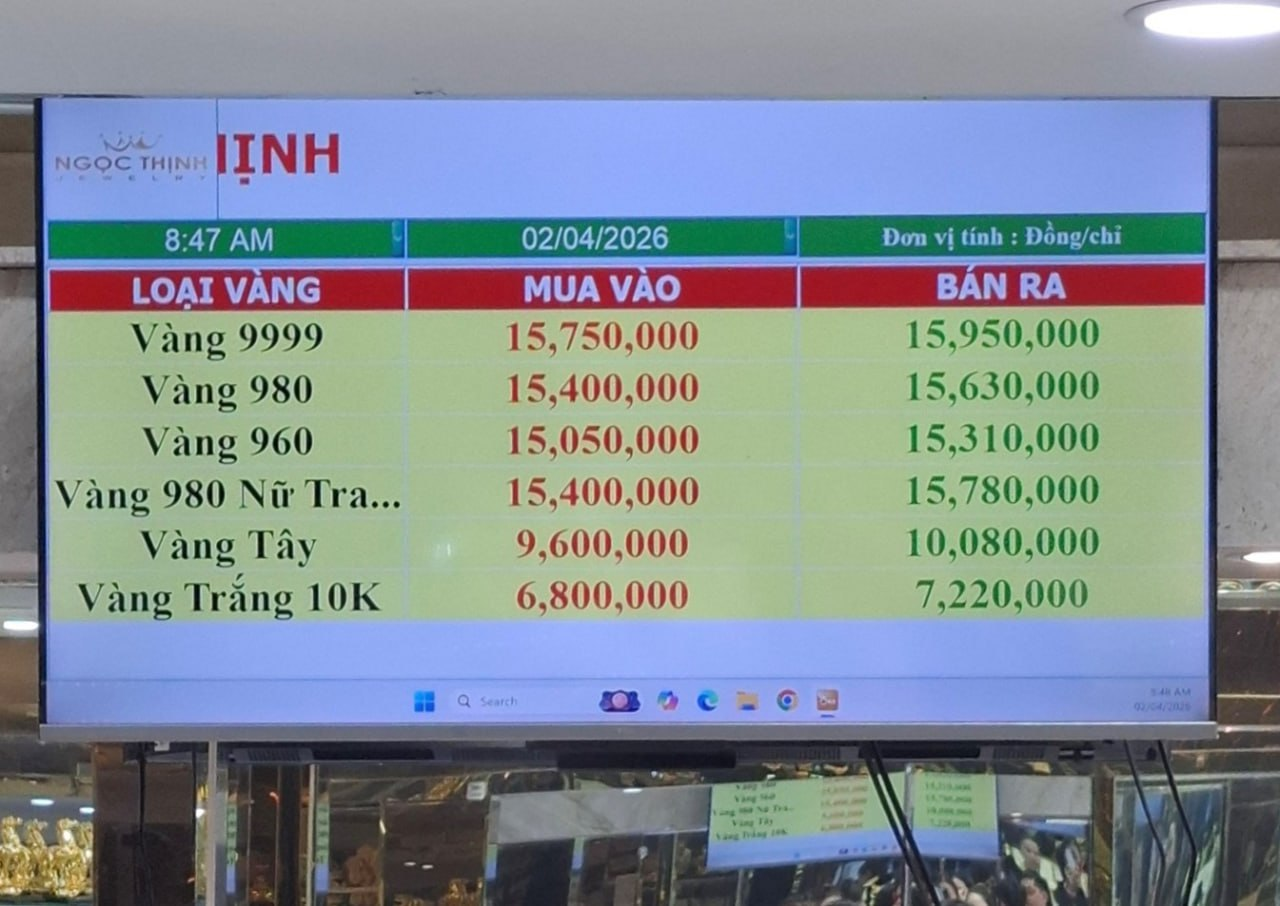
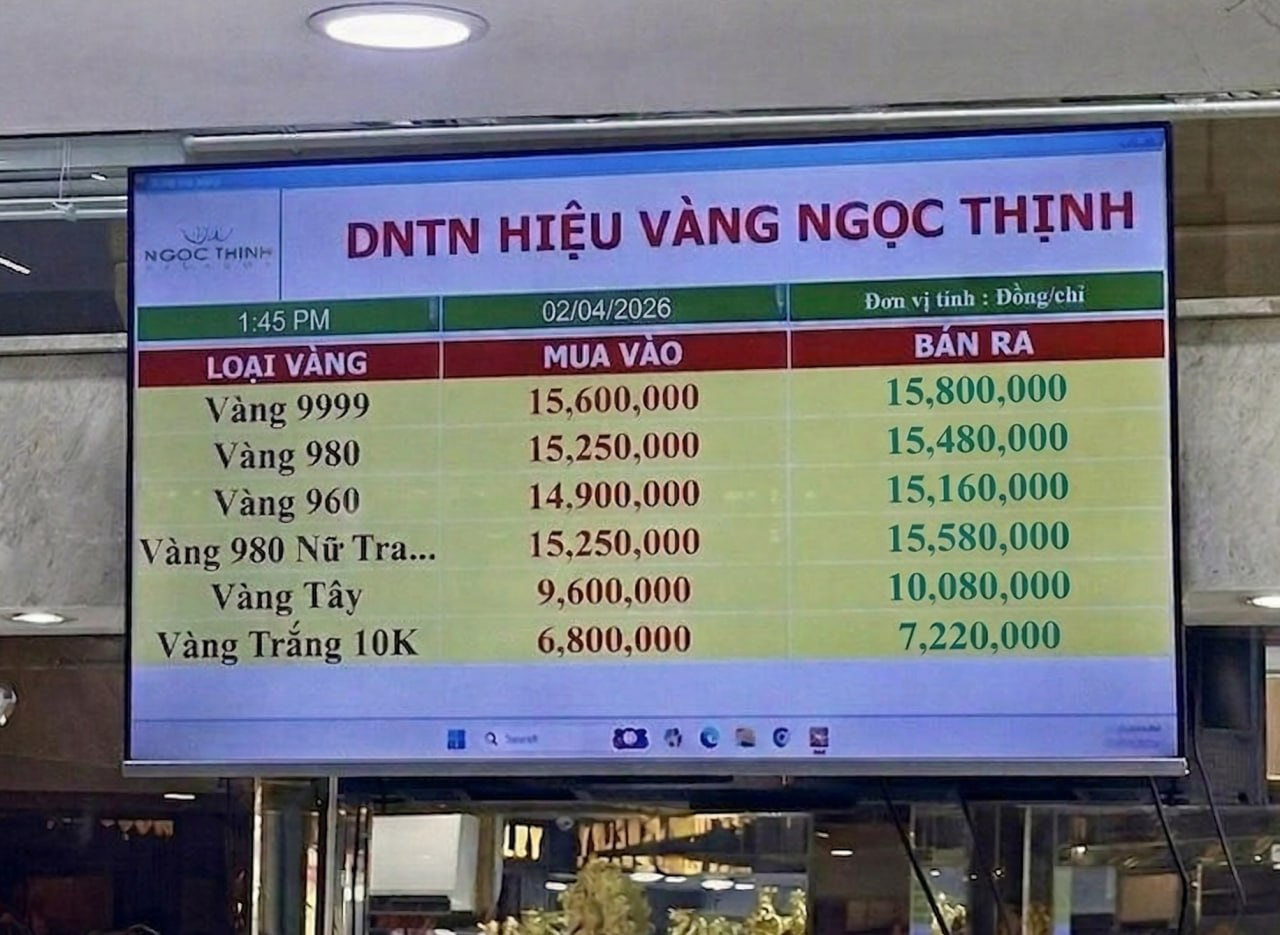
Update ngoc-thinh price image (13:49)

diff --git a/app/data/goldShops.ts b/app/data/goldShops.ts
@@ -19,7 +19,7 @@ export const GOLD_SHOPS: GoldShop[] = [
     name: "Ngọc Thịnh",
     location: "Đà Nẵng",
     image: "images/ngoc-thinh.jpg",
-    updatedAt: "09:07",
+    updatedAt: "13:49",
   },
   {
     id: "kim-khanh-viet-hung",
